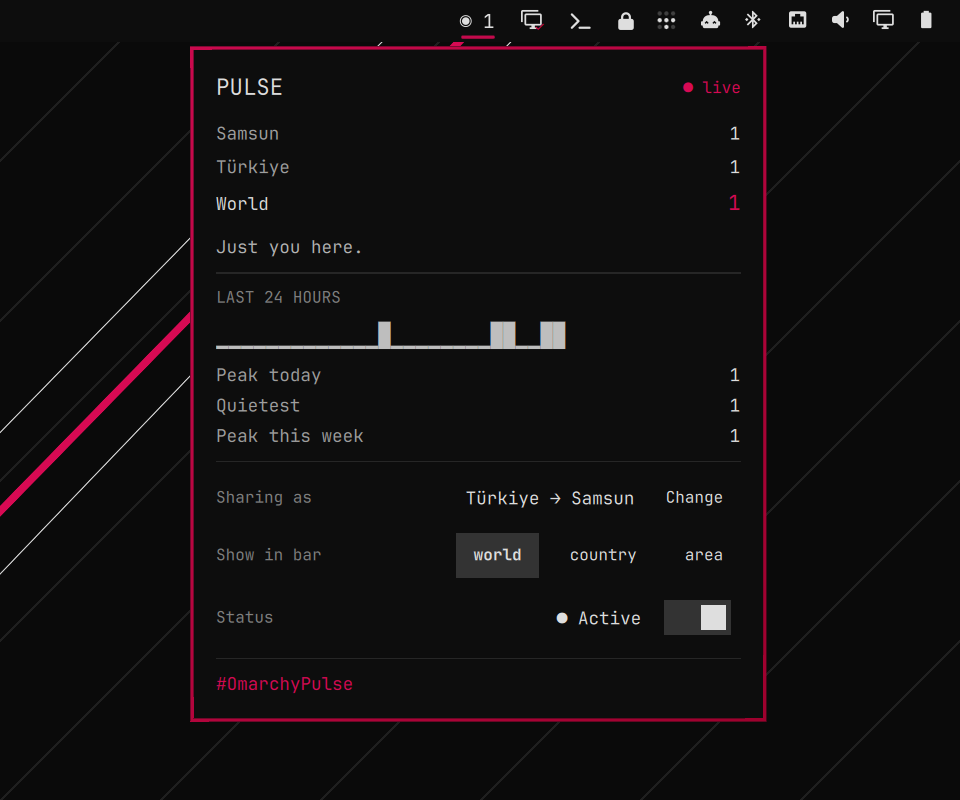
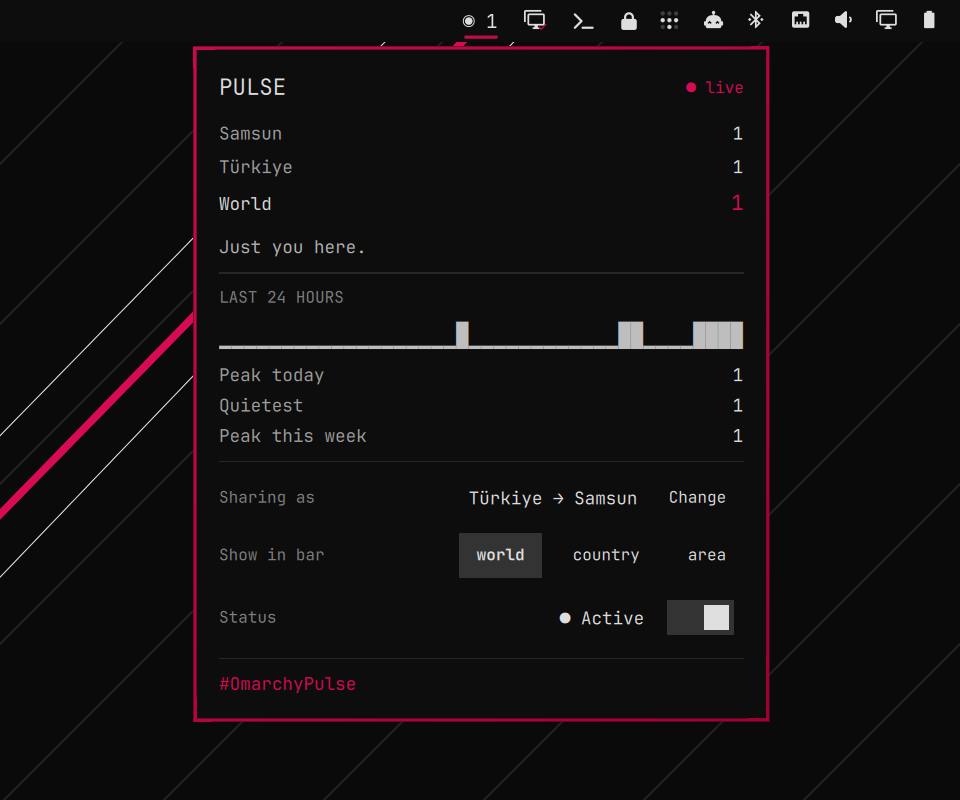
Let the 24-hour line span the panel
A fixed 28 columns stopped roughly two thirds across, so the graph looked
cut off next to count rows that reach the right edge. The column count now
comes from how many block glyphs fit the measured width. Screenshot retaken.

diff --git a/Panel.qml b/Panel.qml
@@ -284,10 +284,16 @@ Panel {
             PulseCaption { text: "LAST 24 HOURS" }
 
             Text {
+              id: spark
               Layout.fillWidth: true
               visible: root.hasHistory
+              // One bucket per glyph that fits, so the 24h line spans the panel
+              // instead of stopping wherever a fixed column count happens to end.
+              FontMetrics { id: sparkMetrics; font: spark.font }
+              readonly property real glyph: sparkMetrics.advanceWidth("█")
+              readonly property int columns: glyph > 0 ? Math.floor(width / glyph) : 28
               text: Model.sparkline(root.hasHistory ? svc.history.points : [],
-                                    28, 86400, Math.floor(Date.now() / 1000))
+                                    spark.columns, 86400, Math.floor(Date.now() / 1000))
               color: root.foreground
               opacity: 0.85
               font.family: root.fontFamily
